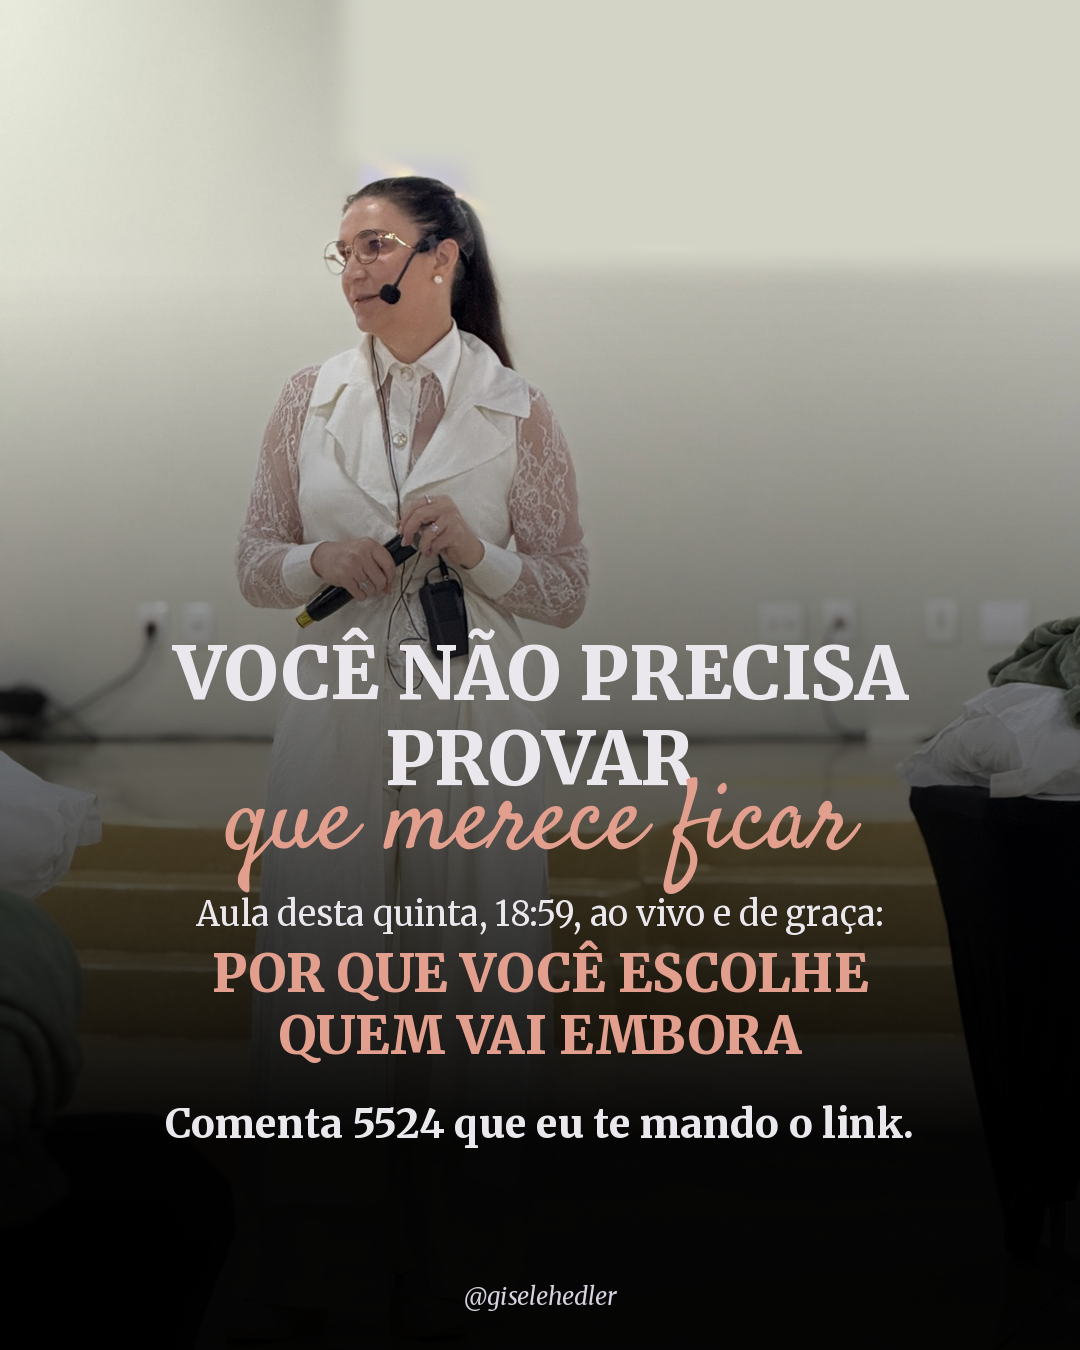
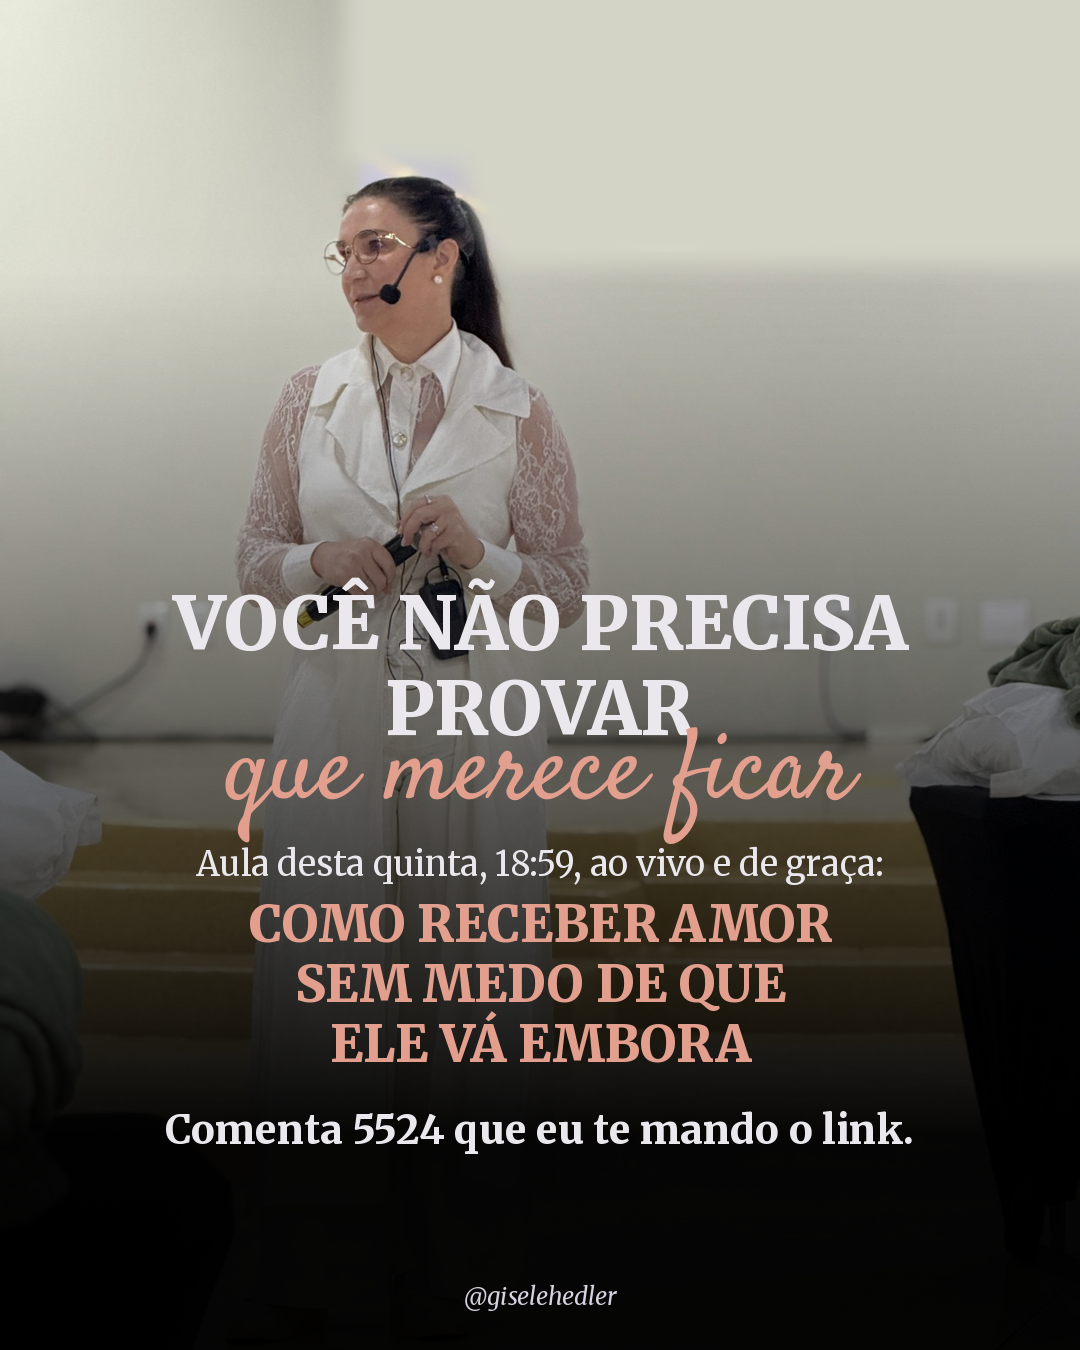
Quinta: tema 'Como receber amor sem medo de que ele vá embora' no slide final e no roteiro da aula
Claude-Session: https://claude.ai/code/session_01UQX7rfK53Xmv3nMSefSp7k

Changed region(s): [[0.1528, 0.4044, 0.8556, 0.8711]]

diff --git a/conteudos.html b/conteudos.html
@@ -156,7 +156,7 @@ Aula grátis toda quinta, 18:59 ↓</div>
       <tr><td>Seg 12</td><td>Data</td><td>Planta: a madame aprendeu que podia replantar</td><td>No ar</td></tr>
       <tr><td>Ter 13</td><td>Mente</td><td>Portas: a raiva engolida (cada porta contradiz a anterior)</td><td>Gravado</td></tr>
       <tr><td>Qua 14</td><td>Quinta</td><td>Carrossel refeito "Por que filhas de pais ausentes se atraem pelos homens que vão abandoná-las?" (fotos suas, relatos, print de aluna) + 5524. Vira o novo fixado</td><td>Fazer</td></tr>
-      <tr><td>Qui 15</td><td>Quinta</td><td>Live 18:59: "Por que você escolhe quem vai embora" (mesmo tema do carrossel). Feed sem post; stories o dia todo com 5524</td><td>Ao vivo</td></tr>
+      <tr><td>Qui 15</td><td>Quinta</td><td>Live 18:59: "Como receber amor sem medo de que ele vá embora" (o carrossel explica o porquê; a aula ensina o como). Feed sem post; stories o dia todo com 5524</td><td>Ao vivo</td></tr>
       <tr><td>Sex 16</td><td>Corpo</td><td>"Eu tinha certeza de que não ia perder os meus rins" (fala para a câmera)</td><td>Gravar</td></tr>
       <tr><td>Sáb 17</td><td>Prosperidade</td><td>Molde Tay (frase de golpista e desmonta): "É só mentalizar que o dinheiro chega" + dados da sua pesquisa</td><td>Gravar</td></tr>
       <tr><td>Dom 18</td><td>Mente</td><td>Molde Carol (lei com objeto na mão, 88x): "Culpa é igual boleto no nome dos outros"</td><td>Gravar</td></tr>
@@ -870,14 +870,14 @@ Slides 9 e 10: foto sua dando aula (a do original no palco serve).
 Sem crianças chorando geradas por IA. Cores da marca, uma ideia por linha.</div>
     </details>
     <details><summary>A Quinta da Mente desse tema (roteiro da aula)</summary>
-      <div class="txt"><b>Título:</b> Por que você escolhe quem vai embora
-1. Abertura: o teste do carrossel ao vivo. Quem marcou 3 ou mais escreve "3" no chat.
-2. As quatro conclusões da menina: amor se conquista, eu não valho atenção, pedir é ser um fardo, homem vai embora.
-3. Por que o ausente parece casa: a gente reconhece como amor o que é familiar.
-4. A crença é de hoje: quem acredita que vai ser abandonada só nota os sinais de abandono e esquece os outros.
-5. Não foi escolha. Continuar acreditando, é. Você é adulta, não mais uma criança que pode ser intimidada.
-6. Exercício ao vivo: lembrar de alguém que ficou. O mesmo passado tem quem ficou. Escrever no chat.
-7. Tarefa da semana: quando sentir "ele vai embora", conferir o fato antes de reagir.
+      <div class="txt"><b>Título:</b> Como receber amor sem medo de que ele vá embora
+1. Abertura (5 min): o teste do carrossel ao vivo. Quem marcou 3 ou mais escreve "3" no chat. Resumo rápido do porquê (as quatro conclusões da menina), sem repetir o carrossel.
+2. Por que amor bom parece estranho: a gente reconhece como amor o que é familiar.
+3. Primeiro passo, notar o alarme: o momento em que "ele vai embora" aparece. Pedir exemplos no chat.
+4. Segundo passo, separar: o seu pai não é ele. Conferir o fato antes de reagir.
+5. Terceiro passo, a frase de hoje: quem acredita que vai ser abandonada só nota os sinais de abandono. Qual frase você repete?
+6. Quarto passo, lembrar de quem ficou: o mesmo passado tem quem ficou. Exercício ao vivo, escrever no chat.
+7. Tarefa da semana: receber um cuidado sem retribuir na hora e sem desconfiar. Só agradecer.
 8. Fechamento: "Eu sou treinável." Convite para a Integra, citando as aulas que já estão lá: Dependência emocional: como sair desse ciclo; Como lidar com a rejeição; Como parar de desaparecer dentro das relações; Herança emocional: por que você age como sua mãe.</div>
       <p class="note">Na legenda e na live: "Se você vive violência, isso não é amor. Ligue 180." Sem culpar a mulher pela traição ou pelo abandono do outro: a escolha é sobre o que ela acredita e faz hoje.</p>
     </details>

diff --git a/carrosseis/pais-ausentes-quinta/montar.py b/carrosseis/pais-ausentes-quinta/montar.py
@@ -184,11 +184,11 @@ im=limpa.crop((0,200,1400,1950))
 img=im.resize((W,H),Image.LANCZOS)
 img=gradiente(img,de=0.20,forca=248)
 d=ImageDraw.Draw(img)
-y=titulo_cursiva(d,700,['VOCÊ NÃO PRECISA','PROVAR'],'que merece ficar',tsz=74,csz=100)
+y=titulo_cursiva(d,650,['VOCÊ NÃO PRECISA','PROVAR'],'que merece ficar',tsz=74,csz=100)
 y+=24
 d.text((W/2,y),'Aula desta quinta, 18:59, ao vivo e de graça:',font=f(REG,34),fill=BRANCO,anchor='ms'); y+=66
-for l in ['POR QUE VOCÊ ESCOLHE','QUEM VAI EMBORA']:
-    d.text((W/2,y),l,font=f(BLK,52),fill=ROSE,anchor='ms'); y+=62
+for l in ['COMO RECEBER AMOR','SEM MEDO DE QUE','ELE VÁ EMBORA']:
+    d.text((W/2,y),l,font=f(BLK,50),fill=ROSE,anchor='ms'); y+=60
 y+=22
 d.text((W/2,y),'Comenta 5524 que eu te mando o link.',font=f(B8,40),fill=BRANCO,anchor='ms')
 d.text((W/2,H-45),'@giselehedler',font=f(ITA,24),fill='#d8d2e0',anchor='ms')
